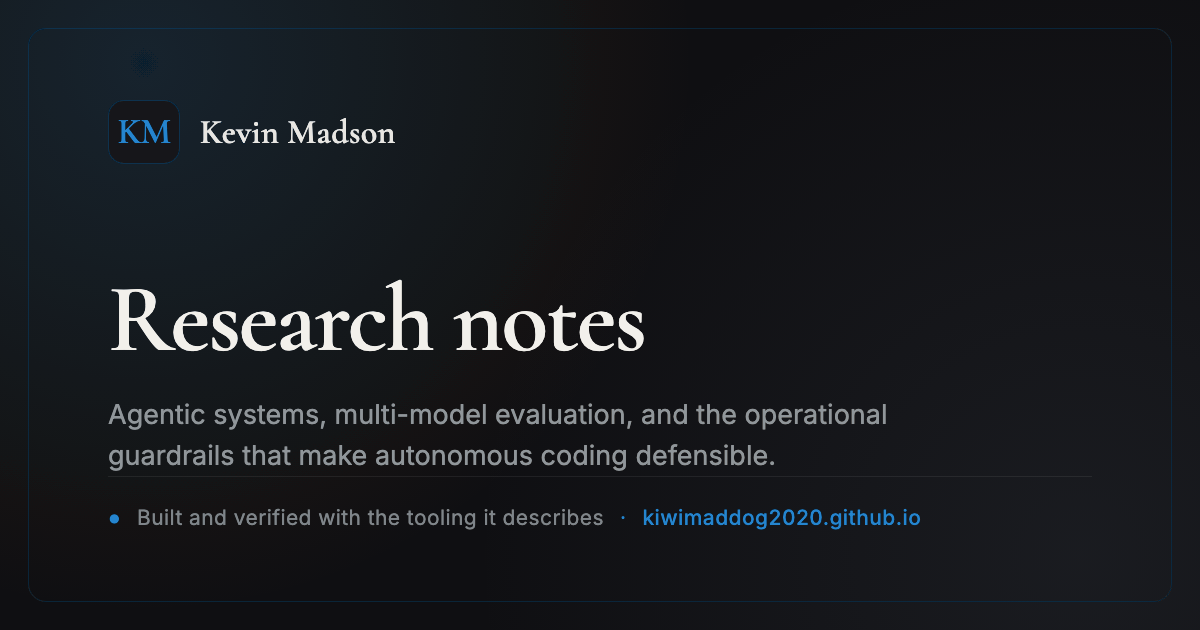
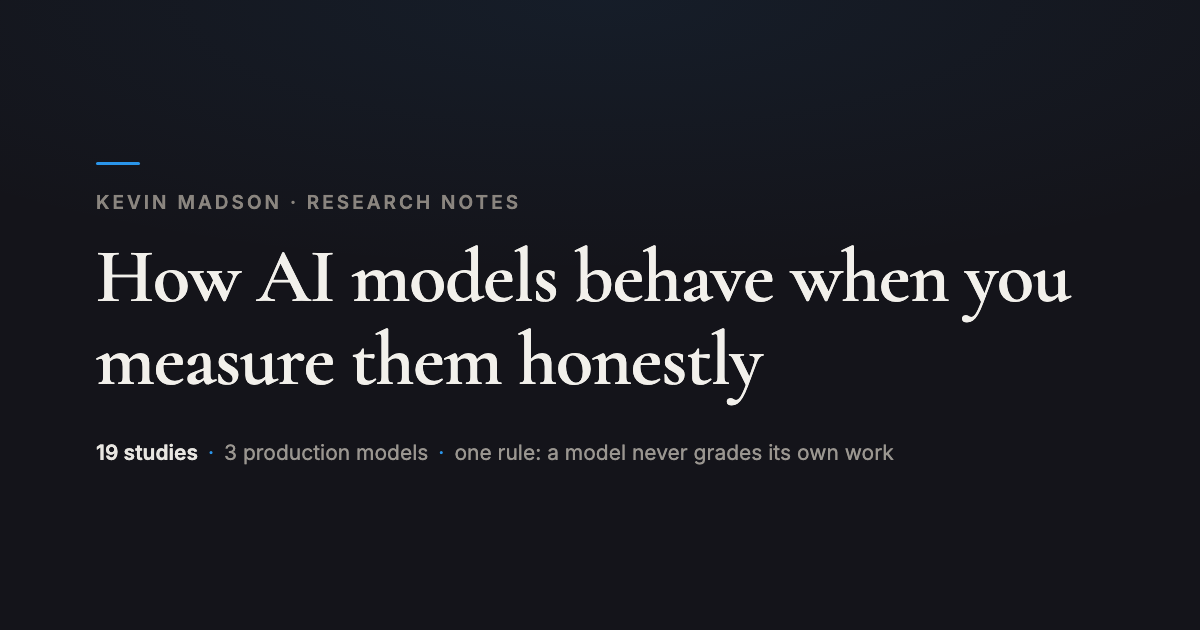
design: bespoke social card in the site's own system (serif on ink, v=3)
Replaces the generic share card with a 1200x630 render of the brand itself:
Cormorant title on the ink ground, accent tick, small-caps kicker, and the
series line (19 studies, 3 models, one rule). Rendered from an HTML artifact
through the site's own fonts so the card and the site are the same design.
Alt text updated to describe the actual card.

diff --git a/index.html b/index.html
@@ -14,16 +14,16 @@
   <meta property="og:title" content="Arbiter Machinae · Research and study of AI">
   <meta property="og:description" content="Research notes and an interactive study of machine learning, agents, vibe coding, AI evaluation, and LLM research, by Kevin Madson.">
   <meta property="og:url" content="https://kiwimaddog2020.github.io/">
-  <meta property="og:image" content="https://kiwimaddog2020.github.io/assets/social-card.png?v=2">
+  <meta property="og:image" content="https://kiwimaddog2020.github.io/assets/social-card.png?v=3">
   <meta property="og:image:type" content="image/png">
   <meta property="og:image:width" content="1200">
   <meta property="og:image:height" content="630">
-  <meta property="og:image:alt" content="Arbiter Machinae: research and multi-model evaluation notes by Kevin Madson">
+  <meta property="og:image:alt" content="Ink-dark card: How AI models behave when you measure them honestly. Kevin Madson, research notes; 19 studies, 3 production models, one rule: a model never grades its own work.">
   <meta name="twitter:card" content="summary_large_image">
   <meta name="twitter:title" content="Arbiter Machinae · Research and study of AI">
   <meta name="twitter:description" content="Research notes and an interactive study of machine learning, agents, vibe coding, AI evaluation, and LLM research, by Kevin Madson.">
-  <meta name="twitter:image" content="https://kiwimaddog2020.github.io/assets/social-card.png?v=2">
-  <meta name="twitter:image:alt" content="Arbiter Machinae: research and multi-model evaluation notes by Kevin Madson">
+  <meta name="twitter:image" content="https://kiwimaddog2020.github.io/assets/social-card.png?v=3">
+  <meta name="twitter:image:alt" content="Ink-dark card: How AI models behave when you measure them honestly. Kevin Madson, research notes; 19 studies, 3 production models, one rule: a model never grades its own work.">
   <link rel="icon" href="/assets/favicon-32.png" sizes="32x32" type="image/png">
   <link rel="icon" href="/assets/favicon-16.png" sizes="16x16" type="image/png">
   <link rel="apple-touch-icon" href="/assets/apple-touch-icon-180.png">

diff --git a/_layouts/default.html b/_layouts/default.html
@@ -14,16 +14,16 @@
 <meta property="og:title" content="{% if page.url == '/' %}Arbiter Machinae · Research notes{% else %}{{ page.title | default: site.title }}{% endif %}">
 <meta property="og:description" content="{{ page.description | default: site.description }}">
 <meta property="og:url" content="{{ page.url | absolute_url }}">
-<meta property="og:image" content="https://kiwimaddog2020.github.io/assets/social-card.png?v=2">
+<meta property="og:image" content="https://kiwimaddog2020.github.io/assets/social-card.png?v=3">
 <meta property="og:image:type" content="image/png">
 <meta property="og:image:width" content="1200">
 <meta property="og:image:height" content="630">
-<meta property="og:image:alt" content="Arbiter Machinae: research and multi-model evaluation notes by Kevin Madson">
+<meta property="og:image:alt" content="Ink-dark card: How AI models behave when you measure them honestly. Kevin Madson, research notes; 19 studies, 3 production models, one rule: a model never grades its own work.">
 <meta name="twitter:card" content="summary_large_image">
 <meta name="twitter:title" content="{% if page.url == '/' %}Arbiter Machinae · Research notes{% else %}{{ page.title | default: site.title }}{% endif %}">
 <meta name="twitter:description" content="{{ page.description | default: site.description }}">
-<meta name="twitter:image" content="https://kiwimaddog2020.github.io/assets/social-card.png?v=2">
-<meta name="twitter:image:alt" content="Arbiter Machinae: research and multi-model evaluation notes by Kevin Madson">
+<meta name="twitter:image" content="https://kiwimaddog2020.github.io/assets/social-card.png?v=3">
+<meta name="twitter:image:alt" content="Ink-dark card: How AI models behave when you measure them honestly. Kevin Madson, research notes; 19 studies, 3 production models, one rule: a model never grades its own work.">
 <link rel="icon" href="/assets/favicon-32.png" sizes="32x32" type="image/png">
 <link rel="icon" href="/assets/favicon-16.png" sizes="16x16" type="image/png">
 <link rel="apple-touch-icon" href="/assets/apple-touch-icon-180.png">
